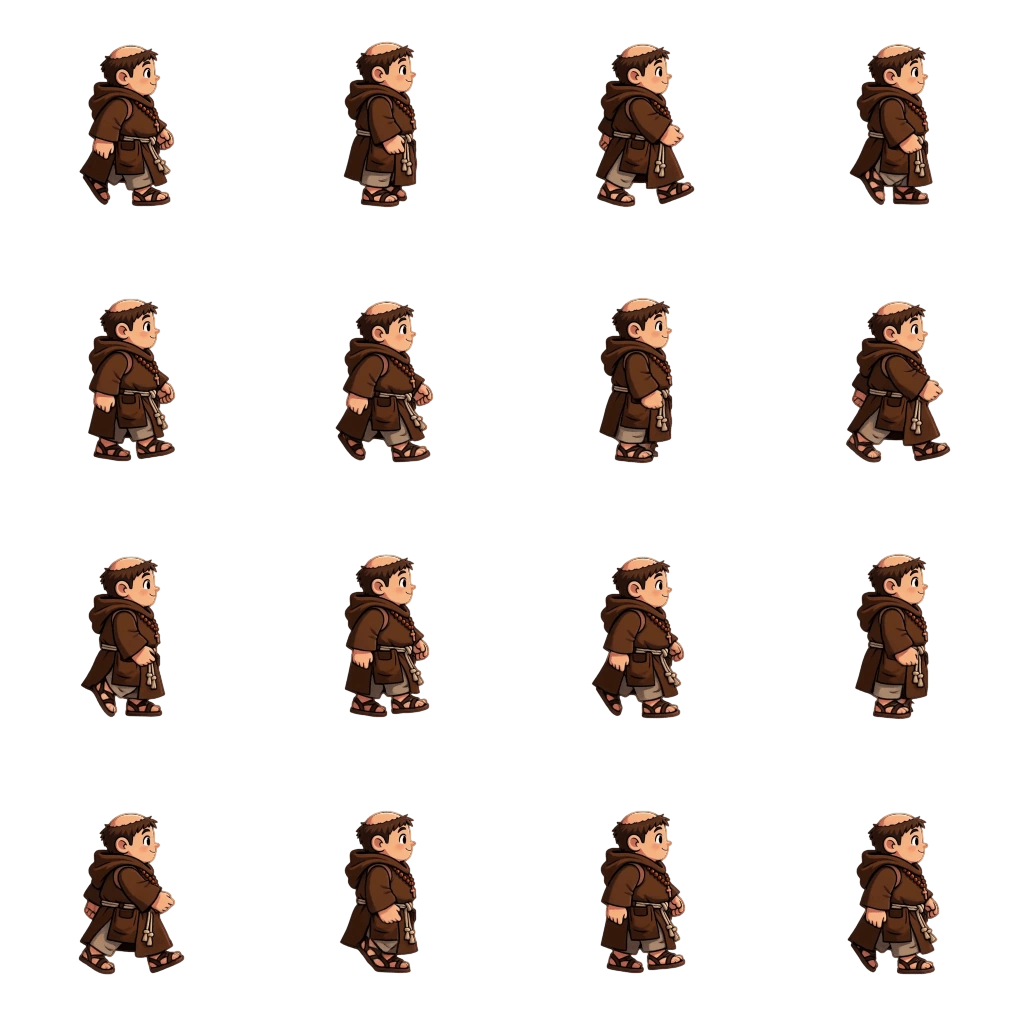
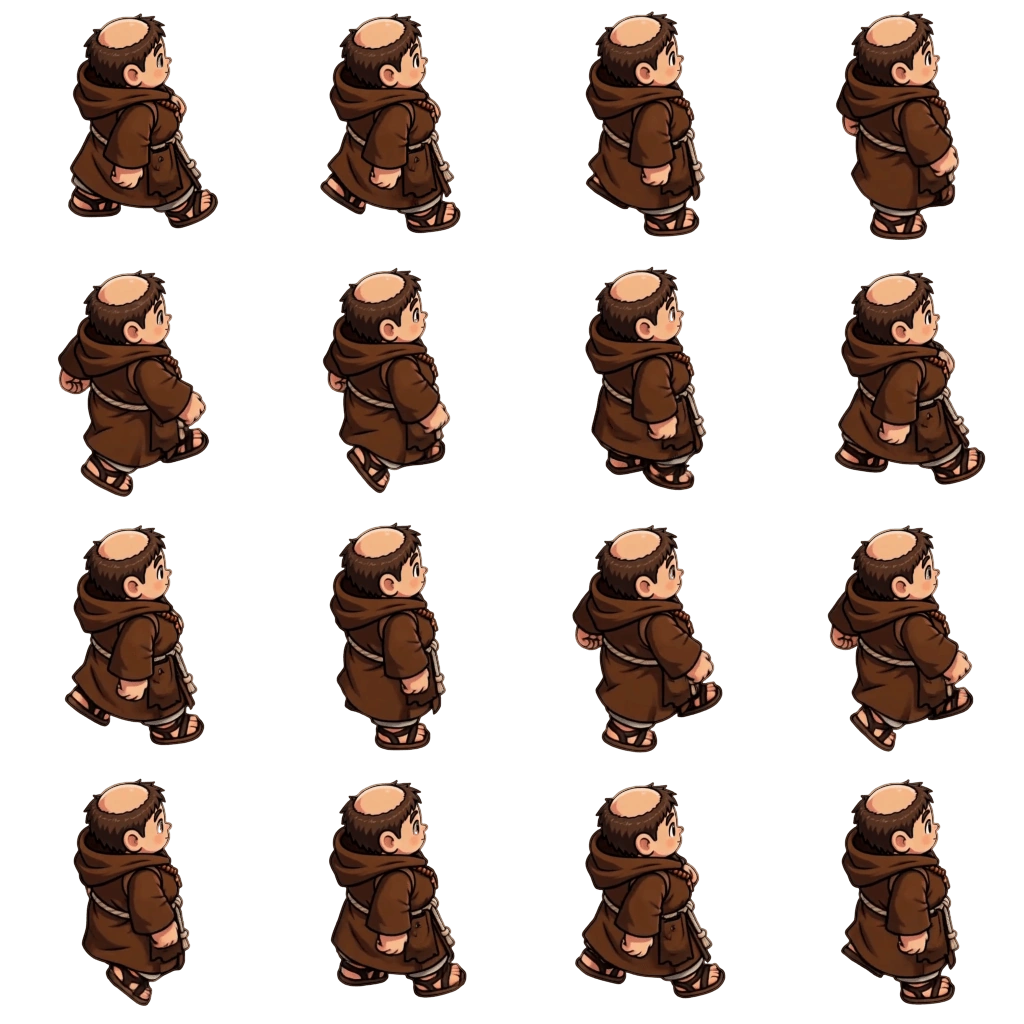
Caminar de l'Ineu dreta/esquerra idèntic, imatge d'aixecar sota la boira i hora del rellotge corregida
- Full nou de caminar cap a la dreta; l'esquerra és sempre el seu mirall (també a assets/ineu/left.webp i a l'eina de conversió)
- La imatge de l'Ineu aixecant l'arma queda sota la boira (abans es veia massa il·luminada)
- El rellotge del campanar s'ha aturat a «un quart de quatre»

diff --git a/js/dialegs.js b/js/dialegs.js
@@ -263,7 +263,7 @@ const DIALEGS = {
                     { qui: 'Pare Daniel', text: 'Ineu! Quina alegria de veure\'t! Vine, vine, que dirigeixo el cor i necessito una veu més.' },
                     { qui: 'Pare Daniel', text: 'La Pianista i jo som amics de tota la vida. Ella toca com ningú, i jo... jo només canto i faig el ximple amb els nens. Però la música es queda sense orgue, ja ho veus.' },
                     { qui: 'Pare Daniel', text: 'No et preocupis: si la música s\'ha amagat, la cantarem perquè torni! Riure és la primera pregària.' },
-                    { qui: 'Pare Daniel', text: 'Ah, i una cosa que em preocupa: el rellotge del campanar s\'ha aturat a les tres i quart, la nit que va arribar la boira.' },
+                    { qui: 'Pare Daniel', text: 'Ah, i una cosa que em preocupa: el rellotge del campanar s\'ha aturat a un quart de quatre, la nit que va arribar la boira.' },
                     { qui: 'Pare Daniel', text: 'La porta de la dreta del retaule puja per la torre fins a la Sala del Rellotge, però és tancada amb clau, i la clau la guarden les Venerables Sàvies, a les Cel·les. Jo ja no tinc l\'esquena per a tants graons, però tu... mira què hi passa.' }
                 ],
                 enAcabar: () => { E.posaFlag('parlatDaniel'); E.posaFlag('rellotgeDit'); }
@@ -448,7 +448,7 @@ const DIALEGS = {
                 { qui: 'Carry', text: "La nit següent va ser el Flami, el de la porta de l'esquerra. El Pallofa va lladrar a la boira, com si veiés algú que jo no veia, i va marxar darrere seu. Per això he tingut tanta por." }
             ];
             if (clau) pagines.push(
-                { qui: 'Carry', text: "El meu home era el campaner. Des que se'n va, la clau de la torre la guardo jo, i fa anys que ningú no hi puja. Pren-la. Aquell rellotge s'ha aturat a les tres i quart, i ningú no s'ha adonat que el temps ja no passa." },
+                { qui: 'Carry', text: "El meu home era el campaner. Des que se'n va, la clau de la torre la guardo jo, i fa anys que ningú no hi puja. Pren-la. Aquell rellotge s'ha aturat a un quart de quatre, i ningú no s'ha adonat que el temps ja no passa." },
                 { avis: 'Has obtingut la CLAU DEL CAMPANAR.' });
             return {
                 pagines,

diff --git a/eines/convertir_webp.js b/eines/convertir_webp.js
@@ -62,9 +62,23 @@ async function fulla(rel, dest, qualitat) {
     console.log(rel.padEnd(34), mb(a).padStart(9), '->', mb(r.size).padStart(9));
 }
 
+// La fulla de l'esquerra és sempre el mirall de la de la dreta (fotograma a fotograma, cel·les de 256): el mateix caminar per als dos costats
+async function fullaMirall(rel, dest, qualitat) {
+    const CEL = 256, N = 4;
+    const src = path.join(ARREL, rel);
+    const parts = [];
+    for (let r = 0; r < N; r++) for (let c = 0; c < N; c++) {
+        parts.push({ input: await sharp(src).extract({ left: c * CEL, top: r * CEL, width: CEL, height: CEL }).flop().png().toBuffer(), left: c * CEL, top: r * CEL });
+    }
+    const out = await sharp({ create: { width: CEL * N, height: CEL * N, channels: 4, background: { r: 0, g: 0, b: 0, alpha: 0 } } }).composite(parts)
+        .webp({ quality: qualitat, alphaQuality: 100, effort: 6 }).toFile(path.join(ARREL, dest));
+    console.log(`${rel} (mirall)`.padEnd(34), mb(out.size).padStart(9));
+}
+
 (async () => {
     for (const it of items) await catalog(it);
-    for (const d of ['down', 'up', 'left', 'right', 'southwest', 'southeast', 'northwest', 'northeast']) await fulla(`art/ineu/caminar/transparents/${d}.png`, `assets/ineu/${d}.webp`, 90);
-    await fulla('art/ineu/caminar/Ineu-walk-v1.png', 'assets/ineu/costat.webp', 95);   // té fons blanc: el joc el treu en carregar-la
+    for (const d of ['down', 'up', 'right', 'southwest', 'southeast', 'northwest', 'northeast']) await fulla(`art/ineu/caminar/transparents/${d}.png`, `assets/ineu/${d}.webp`, 90);
+    await fullaMirall('art/ineu/caminar/transparents/right.png', 'assets/ineu/left.webp', 90);
+    await fulla('art/ineu/caminar/Ineu-iso_walk_right-v2.png', 'assets/ineu/costat.webp', 95);   // té fons blanc: el joc el treu en carregar-la
     console.log('TOTAL', mb(abans), '->', mb(despres));
 })();

diff --git a/js/progres.js b/js/progres.js
@@ -139,7 +139,7 @@ const PROGRES = {
               : E.te('pallofa') ? "Duu el Pallofa a la Carry, a Nostra Senyora (a l'oest de les Cel·les)."
               : "El Pallofa, el gos de la Carry, passeja per Sant Antoni (a llevant del Monestir). Si el trobes, duu-lo a la Carry: guarda la clau del campanar." },
         { id: 'rellotge', marca: ['rellotgeReparat'], obert: E => E.te('clau_campanar') || E.flag('portaCampanarOberta') || E.flag('clauCampanar'), fet: E => E.flag('rellotgeReparat'),
-          pista: E => "El rellotge del campanar s'ha aturat a les tres i quart. Amb la clau del campanar que et va donar la Carry, obre la porta de la dreta del retaule del Santuari, puja per la torre fins a la Sala del Rellotge i posa els engranatges en ordre." },
+          pista: E => "El rellotge del campanar s'ha aturat a un quart de quatre. Amb la clau del campanar que et va donar la Carry, obre la porta de la dreta del retaule del Santuari, puja per la torre fins a la Sala del Rellotge i posa els engranatges en ordre." },
         { id: 'tresor', marca: ['tresorObert'], obert: E => E.flag('cantPedres'), fet: E => E.flag('tresorObert'),
           pista: E => "Diuen que a la façana del Santuari hi ha una pedra que escolta el Cant de les Pedres." },
         { id: 'nena', marca: ['nenaVista', 'llac1', 'llac2', 'nenaAlliberada'], obert: E => E.flag('nenaVista'), fet: E => E.flag('nenaAlliberada'),

diff --git a/js/zona_base.js b/js/zona_base.js
@@ -469,7 +469,7 @@ class ZonaBase extends Phaser.Scene {
         if (this.ineuAlt) this.ineuAlt.destroy();
         I.setVisible(false);
         if (this.fantasma) this.fantasma.setVisible(false);          // la silueta translúcida de l'Ineu també: un dibuix desapareix i l'altre apareix, sense transparències
-        this.ineuAlt = this.add.image(I.x, I.y + 2, key).setOrigin(ox, 1).setScale(esc).setDepth(99100);       // per sobre de tothom (també del Germà Andreu)
+        this.ineuAlt = this.add.image(I.x, I.y + 2, key).setOrigin(ox, 1).setScale(esc).setDepth(85000);       // per sobre de tothom (també del Germà Andreu), però SOTA la boira (89990+): si no, quedava il·luminat
         this.llum(I.x - 8, I.y - 190, 0xffe8a0);
         Joc.fanfaraObjecte(this);
         if (fet) fet();

diff --git a/js/zones/casa.js b/js/zones/casa.js
@@ -534,7 +534,7 @@ class ZonaCasaTresor extends ZonaCasaBase {
 }
 
 // ---------------- LA SALA DEL RELLOTGE (el rellotge del campanar, dalt de la torre del Santuari) ----------------
-// El rellotge és aturat a les tres i quart (l'hora que va arribar la boira). Puzle: posar tres engranatges a la mida correcta
+// El rellotge és aturat a un quart de quatre (l'hora que va arribar la boira). Puzle: posar tres engranatges a la mida correcta
 // perquè torni a caminar. Arreglar-lo dóna +1 gra al rosari.
 const GOLFES_SOLUCIO = [0, 2, 1];      // 0 petit, 1 mitjà, 2 gran: «el petit va primer, el gran al mig i el mitjà darrere»
 const GOLFES_DENTS = [18, 24, 30];     // radi primitiu = dents * 1.5: totes les rodes tenen el mateix pas de dent i poden engranar

diff --git a/js/zones/oest.js b/js/zones/oest.js
@@ -913,7 +913,7 @@ class ZonaDolmen extends ZonaBase {
             c => {
                 this.esp.destroy(); this.esp = null;
                 I.setVisible(false); if (this.fantasma) this.fantasma.setVisible(false);
-                this.ineuAlt = this.add.image(I.x, I.y + 2, 'ineu_aixeca').setOrigin(0.5, 1).setScale(ESC_AIX).setDepth(99100);
+                this.ineuAlt = this.add.image(I.x, I.y + 2, 'ineu_aixeca').setOrigin(0.5, 1).setScale(ESC_AIX).setDepth(85000);       // sota la boira (89990+), per sobre de la resta
                 this.tweens.add({ targets: this.ineuAlt, y: this.ineuAlt.y - 14, yoyo: true, duration: 240, ease: 'Quad.easeOut' });
                 cam.flash(700, 255, 255, 255);
                 cam.shake(500, 0.01);

diff --git a/js/assets.js b/js/assets.js
@@ -299,7 +299,7 @@ const Grafics = {
         Grafics.animacions(scene);
     },
 
-    // Caminar cap a l'esquerra i la dreta: una sola fulla (Ineu-walk-v1.png: 16 fotogrames en 4x4, mirant a la dreta, fons blanc).
+    // Caminar cap a l'esquerra i la dreta: una sola fulla (art/ineu/caminar/Ineu-iso_walk_right-v2.png: 16 fotogrames en 4x4, mirant a la dreta, fons blanc).
     // Es neteja, s'escala i es centra com les altres fulles (cel·les de 256, peus a y=240) i se'n fa el mirall per a l'esquerra.
     perfilIneu(scene) {
         Grafics.perfilNou = false;

diff --git a/docs/GUIO.md b/docs/GUIO.md
@@ -71,7 +71,7 @@ Vertical: 720 d'ample fix i alçada que s'adapta a la proporció de la pantalla 
 
 - **Plaça del Santuari** (inici): façana gran del **Santuari** (la **pedra secreta** de la façana, amb el Cant de les Pedres, duu a una sala del tresor: +1 cor), camí al Pati del Celler i les Runes (NO), **Monestir** (E), **Casa Gran** (O, amb la reixa del porxo, tancada per fora) i **La Bassadòria** (S; amb la Creu de l'Aparició). Un cartell únic.
 - **Santuari** (interior): Pianista, Pare Daniel, altar de pedra per desar i reposar, i el sagrari al mig del retaule (fragment 2, amb la clau petita que s'aconsegueix a l'ermita de la Desaparició). Les dues portes del peu del retaule són tancades; quan el Pare Daniel explica que el rellotge s'ha aturat (el segon cop que hi parles), s'obre la de la **dreta**, que puja per la **Torre del campanar** (escala de cargol) fins a la **Sala del Rellotge**.
-- **Sala del Rellotge:** el rellotge és aturat a les tres i quart (l'hora que va arribar la boira). Puzle curt: posar tres engranatges a la mida correcta (la nota del campaner, un pergamí desplegat i clavat a la paret, diu: petit, gran, mitjà) perquè el rellotge torni a caminar (agulles, engranatges i pèndol es mouen). Premi: +1 gra al rosari. (Ja no hi ha campanes al puzle.)
+- **Sala del Rellotge:** el rellotge és aturat a un quart de quatre (l'hora que va arribar la boira). Puzle curt: posar tres engranatges a la mida correcta (la nota del campaner, un pergamí desplegat i clavat a la paret, diu: petit, gran, mitjà) perquè el rellotge torni a caminar (agulles, engranatges i pèndol es mouen). Premi: +1 gra al rosari. (Ja no hi ha campanes al puzle.)
 - **Monestir**: el portal duu a la **Biblioteca** (prestatgeries fins al sostre, dos vitralls que tenyeixen el terra, pols dins la llum, taula de lectura, faristol amb la **Crònica**, globus i escala): hi treballa el Pare Alcuí. Camí al **Cementiri**.
 - **Els arcs de la Casa Gran**: tot el terra és de pedra (sense gespa); façana gran amb el porxo d'arcs i la reixa tancada per fora; cartell a terra a la dreta de les escales; arbres només a la dreta; les sortides, sota la casa (a l'oest va a la Taverna, a l'est a la Plaça). No hi ha cap font.
 - **La Taverna**: casa gran de tres plantes entre l'Hostatgeria i els arcs de la Casa Gran. La porta és tancada («Avui no servim. — Carmen») fins que l'Eva l'obre per la finestra. **Per dins:** taulell amb la Carmen adormida, llar de foc, taules, acordió i l'Eva. Des de dins **no** es pot baixar al soterrani (la porta del fons és el rebost). Al **Soterrani de la Taverna** (la Taverna i la gàbia són el mateix edifici, per bandes diferents) només s'hi entra per la **porta de ferro de la Sala de les Gírgoles**, a l'est del Pati del Celler, la que el Germà Andreu tanca cada nit: s'obre amb la **Clau de ferro**. Al soterrani, una segona porta de ferro, de pany petit, baixa a la Sala de les Gírgoles (l'única entrada): l'obre la **clau rovellada** del Siscu.
